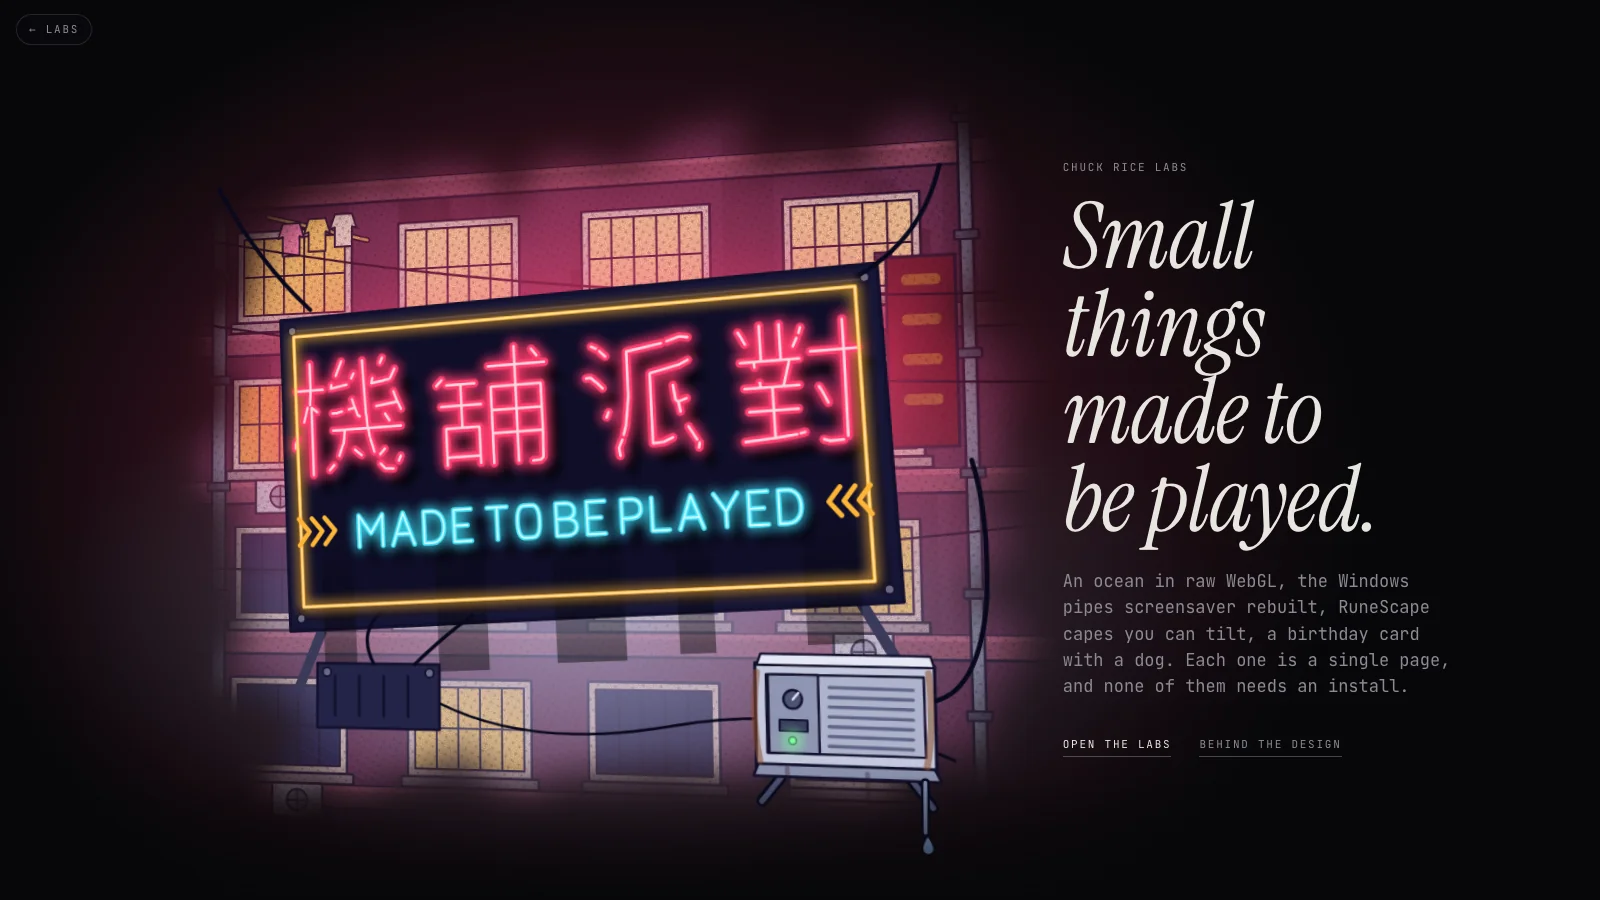
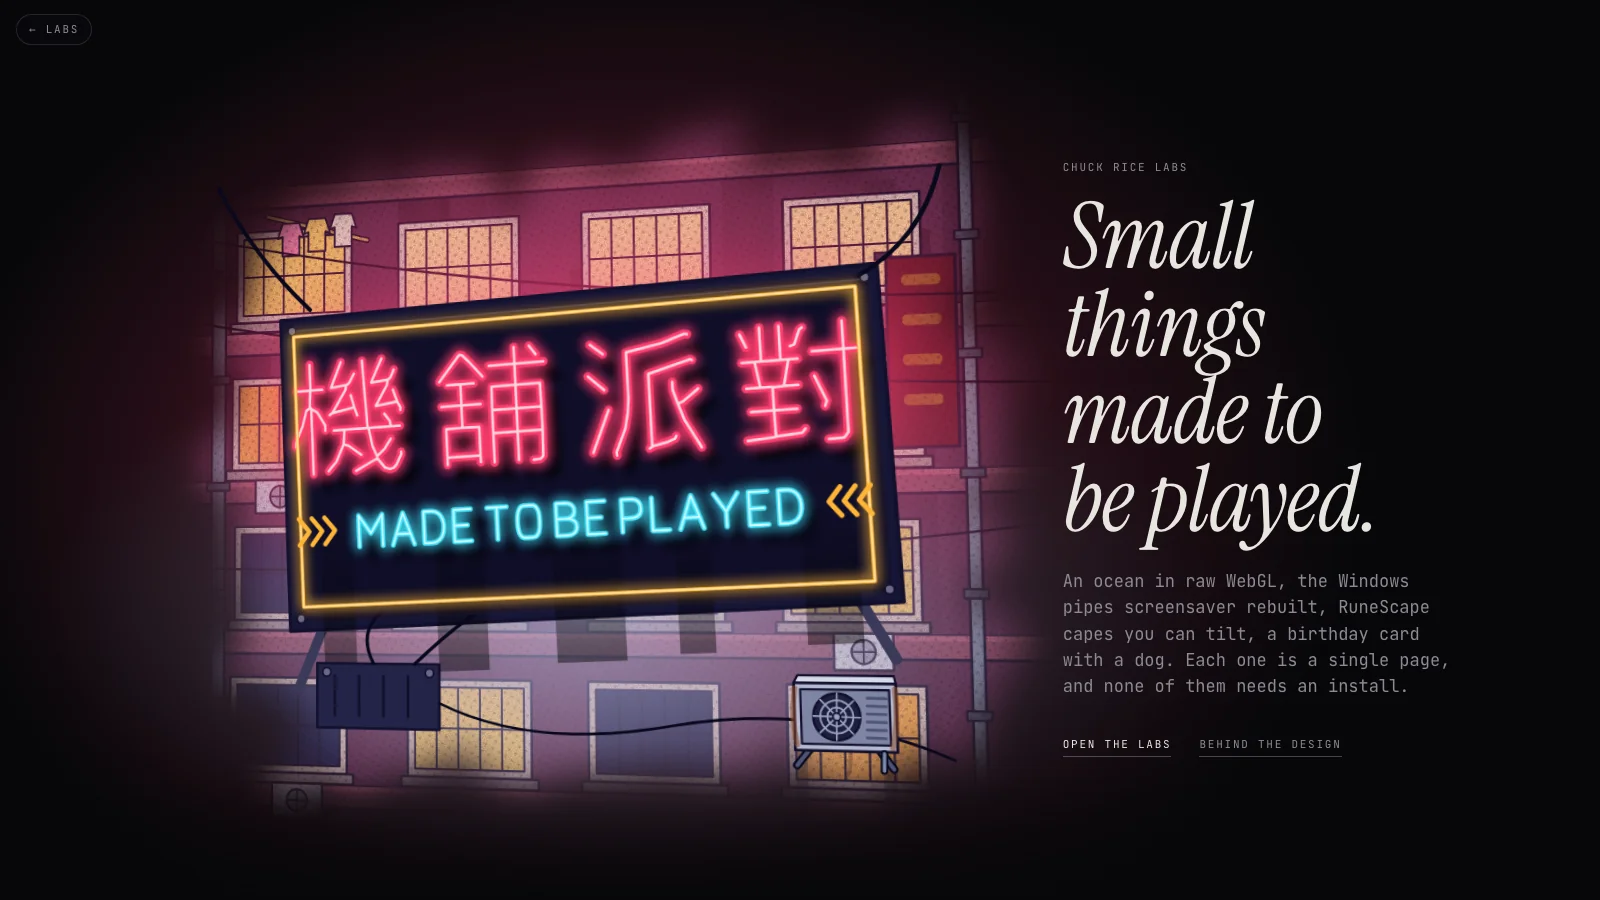
Made to be played: retrace characters (舖 hat restored), smaller outdoor-side aircon, rarer drips, characters in aria-label and data-text

diff --git a/made-to-be-played/index.html b/made-to-be-played/index.html
@@ -40,8 +40,8 @@ body { font: 400 14px/1.6 var(--mono); -webkit-font-smoothing: antialiased; }
 }
 .z { position: absolute; inset: 0; transform: translateZ(var(--z, 0px)); pointer-events: none; }
 .z > svg { position: absolute; left: 0; top: 0; width: 100%; height: 100%; overflow: visible; display: block; }
-@keyframes drip { 0% { opacity: 0; transform: translateY(-4px) scale(.5); } 12% { opacity: 1; transform: translateY(0) scale(1); } 100% { opacity: 0; transform: translateY(150px) scale(1); } }
-.drip { transform-box: fill-box; transform-origin: 50% 0; opacity: 0; animation: drip 1.7s cubic-bezier(.5,0,.9,.6) infinite; }
+@keyframes drip { 0%, 12% { opacity: 0; transform: translateY(-3px) scale(.4); } 17% { opacity: 1; transform: translateY(0) scale(1); } 34% { opacity: 1; transform: translateY(130px) scale(1); } 36%, 100% { opacity: 0; transform: translateY(135px) scale(1); } }
+.drip { transform-box: fill-box; transform-origin: 50% 0; opacity: 0; animation: drip 9s cubic-bezier(.4,0,.8,.7) infinite; }
 @media (prefers-reduced-motion: reduce) { .drip { animation: none; opacity: .8; } }
 #hit { position: absolute; left: 14%; top: 26%; width: 72%; height: 46%; background: none; border: 0; padding: 0; cursor: pointer; transform: translateZ(60px); border-radius: 14px; }
 #hit:focus-visible { outline: 1px solid var(--ink); outline-offset: 6px; }
@@ -94,9 +94,9 @@ body { font: 400 14px/1.6 var(--mono); -webkit-font-smoothing: antialiased; }
   </defs></svg>
 
   <div class="hero">
-    <h1 class="sr">Made to be played. 機舖派對 (arcade party).</h1>
+    <h1 class="sr">Made to be played. <span lang="zh-HK">機舖派對</span> (arcade party).</h1>
     <div id="pw">
-      <div id="plate" role="img" aria-label="A Hong Kong neon sign on the side of an old building. In pink tubes it reads 機舖派對, arcade party; below, in cyan, Made to be played.">
+      <div id="plate" data-text="機舖派對" role="img" aria-label="A Hong Kong neon sign on the side of an old building. In pink tubes it reads 機舖派對, arcade party; below, in cyan, Made to be played.">
         <div class="z" style="--z:0px" id="z-wall"></div>
         <div class="z" style="--z:12px" id="z-glow"></div>
         <div class="z" style="--z:26px" id="z-back"></div>
@@ -148,10 +148,10 @@ const mount = (id, html) => { document.getElementById(id).insertAdjacentHTML('af
 /* ---------------------------------------------------------------- the characters: stroke centrelines traced from a bold sans, 100x100 each */
 const CN_ALL = {   // stroke centrelines, 100x100 each
   wei: 'M47.2 5.7L46.4 10.7M26.4 12.1L29.7 16.8M45 15.7L44.2 19.1M43.9 19.6L43.3 23.2M43.3 23.2L73.6 23.5M13.3 23.5L41.7 23.5M41.9 23.8L37.8 35.7M73.9 23.8L72.5 31.6M71.1 36.3L70.6 40.7M36.4 40.7L70.3 41M70.8 41L82.2 41M82.5 41.3L81.7 47.1M81.1 48.8L79.2 59.6M23.9 59.3L78.9 59.9M79.4 59.9L88.6 59.9M88.9 60.2L88.6 77.4L85.8 89.1M21.1 60.7L16.7 65.2M15.8 65.7L7.2 72.7M69.7 70.4L74.2 81M53.6 71.3L56.7 78.5M25.6 73.5L18.1 87.4M39.7 75.2L42.2 88.2M82.8 91.8L78.9 93.2L68.3 93.2',
-  ji: 'M79.4 6L77.5 9.9M19.2 6.3L19.2 26.8M45.6 6.3L40.6 17.1M62.8 6.8L64.4 49.3M89.2 15.4L85.3 22.4M55.3 16.6L53.3 20.2M70.8 21.3L69.7 25.2L79.7 23.8M83.6 23.2L80.3 23.5M36.7 24.1L36.1 26.8L49.2 24.9M6.9 27.1L18.9 27.1M19.4 27.1L29.2 27.1M19.2 27.4L18.3 38.5M87.5 32.7L90.3 40.7M53.3 36.6L55.3 42.9M16.1 40.4L12.8 51.6M19.7 40.7L23.9 44.3M19.4 41L19.2 93.2M90 41L73.1 43.2M90.6 41L93.1 46.8M55 43.2L50.3 44.1M55.6 43.2L57.5 49.1L59.2 50.2M44.7 45.4L41.1 46M36.7 46.3L40.6 46.3M80 49.6L83.3 54.9M64.7 49.9L65.3 59.3M36.7 59.6L46.4 59.9M65 59.6L46.7 59.6M66.1 59.6L84.4 59.6M85 59.6L92.5 59.6M46.4 59.9L45 70.4M65.8 59.9L66.7 66.3M7.2 64.3L5 68.2L5 71.6M67.2 68.2L70 78.2M44.2 71.6L41.1 79.6M54.2 75.7L59.4 80.2M78.6 76.6L74.7 80.4M91.4 82.7L89.7 86.3M36.4 86.6L32.8 90.2M74.7 87.7L77.8 91M78.6 91.6L85 92.1',
-  pu: 'M69.2 6L69.2 19.3M82.8 9.1L86.7 14.3M48.3 19.6L68.9 19.6M69.4 19.6L92.5 19.6M69.2 19.9L69.2 35.2M10.8 27.4L6.4 31.6M14.4 31.6L25.6 31.6M26.1 31.6L36.9 31.6M25.8 31.8L25.8 47.7M50 35.4L68.9 35.4M69.4 35.4L88.6 35.4M49.7 35.7L49.7 52.9M69.2 35.7L69.2 52.9M88.9 35.7L88.9 52.9M9.4 47.9L25.6 47.9M26.1 47.9L41.4 47.9M25.8 48.2L25.8 64.6M50 53.2L68.9 53.2M69.4 53.2L88.6 53.2M49.7 53.5L49.7 70.4M69.2 53.5L69.2 70.4M88.9 53.5L88.9 70.4M13.1 64.9L25.6 64.9M26.1 64.9L39.2 64.9M12.8 65.2L12.8 86.6M39.4 65.2L39.4 86.6M50 70.7L68.9 70.7M69.4 70.7L88.6 70.7M49.7 71L49.7 93.2M69.2 71L69.2 92.7M88.9 71L88.3 91L86.1 92.9L80.3 93.2M13.1 86.8L39.2 86.8M12.8 87.1L12.8 92.9M39.4 87.1L39.4 92.4',
-  paai: 'M86.1 10.4L80 9.3L70.3 12.1M13.1 11.3L16.7 13.2M66.1 13.2L40 17.1M19.2 15.2L23.6 19.6M39.7 17.4L39.4 51L36.4 72.7M85.3 27.1L78.1 30.2L56.9 34.6M11.4 34.6L8.1 34.9M11.9 34.9L15 37.9M56.4 35.2L56.1 86.3M15.6 38.2L20.3 43.2M73.3 44.9L74.7 55.7L76.7 57.4M82.8 55.2L77.2 57.1M76.7 57.7L77.8 64.6M23.9 61.3L22.2 64.9M36.1 73.2L34.4 78.8M83.1 76L88.9 86M33.1 82.4L30.3 88.2L31.1 94.1M71.1 83.2L64.2 86L56.1 86.6M90.6 88.5L90 91.8',
-  deoi: 'M22.8 6.6L22.8 32.4M37.2 6.6L37.2 32.4M82.5 6.6L82.5 27.9M52.5 10.2L51.1 14.1M7.2 10.4L9.2 13.8M9.7 14.9L11.9 19.3M49.4 17.7L46.4 23.5M58.6 28.2L82.2 28.2M82.8 28.2L92.5 28.2M82.5 28.5L81.7 90.7M7.5 32.7L17.2 32.7M17.8 32.7L22.5 32.7M23.1 32.7L36.9 32.7M37.5 32.7L43.1 32.7M43.6 32.7L50.3 32.7M17.5 32.9L17.8 36.6M43.3 32.9L38.1 51.6M21.1 48.2L21.4 51.6M9.7 51.8L21.1 51.8M21.7 51.8L29.7 51.8M30.3 51.8L37.8 51.8M38.3 51.8L49.4 51.8M30 52.1L30 68.5M63.3 53.8L65 56.8M65.6 57.9L69.2 66M12.2 68.8L29.7 68.8M30.3 68.8L47.8 68.8M30 69.1L30 88.5M51.4 86L48.1 86.6M45.6 87.1L30.3 88.8M29.7 88.8L8.1 90.4M64.4 92.1L68.6 93.5L78.3 93.2',
+  ji: 'M19.2 6.8L19.2 26.8M45.3 6.8L36.4 26.3L48.6 25.2M78.9 6.8L69.7 24.6M62.8 7.1L65.3 59.3M88.6 16L85.8 21.8L83.6 23.5M55.8 16.8L51.4 23.8L49.2 25.2M83.1 23.5L70 24.9M83.3 23.8L82.5 27.7L72.8 42.9M48.9 25.4L48.3 28.8L36.9 45.7M7.5 27.1L18.6 27.1M19.4 27.1L28.9 27.1M18.9 27.4L18.1 40.4L19.2 41.3M87.2 31.6L90.3 40.7M52.5 33.2L55 42.9M17.8 41L15 42.9L11.4 54.6L5.6 66.8L5.3 70.7M90 41L72.8 43.2M90.3 41L92.8 45.7L92.5 47.7M19.4 41.6L24.2 44.6L30.3 55.2L30.3 59.3M19.2 41.8L19.2 92.7M55 42.9L36.9 46M55 42.9L57.2 49.3M36.7 46L34.4 47.4M79.4 49.6L83.6 55.4L84.2 59.3M37.2 59.6L45.8 59.6M46.4 59.6L65 59.6M66.4 59.6L83.9 59.6M84.4 59.6L91.7 59.6M46.1 59.9L45 71M66.1 59.9L68.6 73.8L71.9 81.6M83.9 69.1L78.3 76.8L72.5 81.6M45 71L38.6 83.8L31.7 91M45 71L49.2 72.4L59.2 79.9M91.7 79.6L91.9 81.3L87.8 89.1L85.3 91.6L82.2 92.4L78.1 91L72.2 83.5M72.2 83.5L54.4 92.1',
+  pu: 'M69.2 6.6L69.2 19.1M81.1 6.6L86.1 13.5M48.9 19.3L68.9 19.3M69.4 19.3L91.9 19.3M69.2 19.6L69.2 35.2M43.6 27.1L33.3 14.9L28.1 9.6L25.8 9.1L8.9 28.8M15 31.6L25.6 31.6M26.1 31.6L36.4 31.6M25.8 31.8L25.8 47.7M68.9 35.4L50.3 35.4L50 52.9M69.4 35.4L88.3 35.4L88.6 52.9M69.2 35.7L69.2 52.9M9.7 47.9L25.6 47.9M26.1 47.9L41.1 47.9M25.8 48.2L25.8 64.6M50.3 53.2L68.9 53.2M69.4 53.2L88.3 53.2M50 53.5L50 70.4M69.2 53.5L69.2 70.4M88.6 53.5L88.6 70.4M25.6 64.9L12.8 65.2L12.8 86.6M26.1 64.9L39.2 65.2L39.2 86.6M50.3 70.7L68.9 70.7M69.4 70.7L88.3 70.7M50 71L50 92.7M69.2 71L69.2 92.1M88.6 71L88.1 90.4L85.8 92.4L80.6 92.7M13.1 86.8L38.9 86.8M12.8 87.1L12.8 92.4M39.2 87.1L39.2 91.8',
+  paai: 'M85.8 8.2L83.6 7.7L66.4 13.2L39.4 17.9L39.4 52.1L38.3 62.7L35.8 74.3L28.3 91.3L28.6 93.8M12.2 9.9L21.7 17.7M88.3 27.4L86.9 26.8L55.3 35.2L55.3 88.8L67.2 86.3L72.5 84.3L73.6 82.4M9.4 33.5L21.4 44.6M72.8 42.4L72.8 48.2L75.8 58.2M91.7 48.8L80 57.4L76.1 58.8L80.3 71L91.9 91.8M23.9 59.6L10.6 90.7M55 89.3L53.3 90.2',
+  deoi: 'M22.8 7.9L22.8 32.4M36.9 7.9L36.9 32.4M82.2 7.9L82.2 27.9M53.6 10.4L51.7 11.6L47.5 22.1L44.2 23.2M8.3 11.8L12.5 21.6M59.7 28.2L81.9 28.2M82.5 28.2L91.4 28.2M82.2 28.5L81.9 88.2L78.6 91.8L67.8 92.1M8.6 32.7L17.8 32.7M18.3 32.7L22.5 32.7M23.1 32.7L36.7 32.7M37.2 32.7L42.2 32.7M42.8 32.7L49.2 32.7M18.1 32.9L21.1 51.3M42.5 32.9L38.3 51.3M60.3 46L68.1 64.6L66.7 68.2M10.8 51.6L20.8 51.6M21.4 51.6L29.7 51.6M38.1 51.6L30 52.1L30 68.5M38.6 51.6L48.6 51.6M13.3 68.8L29.7 68.8M30.3 68.8L46.7 68.8M30 69.1L30.3 87.9L49.2 86.3L51.7 83.5M29.7 88.2L9.7 89.6',
 };
 // 機舖 is Cantonese for an arcade; 機舖派對 is arcade party. ?cn=arcade shows the short one.
 const CN_SETS = { party: ['ji', 'pu', 'paai', 'deoi'], arcade: ['ji', 'pu'] };
@@ -236,20 +236,18 @@ function buildBack() {
     `<path d="M${BX + 110} ${BY + BH + 56}Q${BX + 90} ${BY + BH + 20} ${BX + 120} ${BY + BH - 4}M${BX + 160} ${BY + BH + 56}Q${BX + 200} ${BY + BH + 20} ${BX + 230} ${BY + BH}" fill="none" stroke="#08081c" stroke-width="4"/>` +
     `<path d="M${BX + 190} ${BY + BH + 100}Q${BX + 300} ${BY + BH + 150} ${BX + 460} ${BY + BH + 120}T${BX + 760} ${BY + BH + 150}" fill="none" stroke="#08081c" stroke-width="3"/>`;
 
-  // the air conditioner: a window unit bolted to the wall, grimy, dripping onto whoever is underneath
-  g += `<g transform="rotate(1.1 795 690)">` +
-    `<path d="M730 750L708 778M866 748L888 776" stroke="#08081c" stroke-width="12" stroke-linecap="round"/><path d="M730 750L708 778M866 748L888 776" stroke="#4d5374" stroke-width="6" stroke-linecap="round"/>` +
-    pane([[700, 630], [890, 628], [892, 738], [702, 742]], '#c3c8dc', 3.4) + pane([[706, 620], [886, 618], [890, 630], [702, 632]], '#e4e8f4', 2.4) +
-    pane([[712, 642], [879, 640], [881, 724], [714, 726]], '#aeb3cc', 2.6) + pane([[714, 642], [768, 641], [770, 725], [716, 726]], '#8f95b2', 2.6) +
-    [0, 1, 2, 3, 4, 5, 6].map(i => `<path d="M780 ${654 + i * 10.4}H868" stroke="#5e6486" stroke-width="3.6" stroke-linecap="round"/>`).join('') +
-    `<circle cx="741" cy="668" r="10" fill="#4d5374" stroke-width="2.6"/><path d="M741 668L747 661" stroke="#e4e8f4" stroke-width="2.6" stroke-linecap="round"/>` +
-    pane(rect(727, 690, 30, 12), '#3a3f5e', 2.2) + `<circle cx="741" cy="712" r="4" fill="#7dff9a" stroke-width="1.6"/><circle cx="741" cy="712" r="12" fill="#7dff9a" opacity=".5" stroke="none" filter="url(#sh)"/>` +
-    pane([[704, 738], [890, 736], [897, 749], [699, 751]], '#8a90ac', 3) +
-    `<path d="M702 640Q696 690 706 735M884 636Q890 690 882 734" stroke="#8a4a2a" stroke-width="7" opacity=".55" fill="none" stroke-linecap="round"/><path d="M735 742Q737 760 733 780M820 744Q822 766 818 790" stroke="#2a1a22" stroke-width="5" opacity=".35" fill="none" stroke-linecap="round"/>` +
-    `<path d="M880 750V802" stroke="#08081c" stroke-width="9" stroke-linecap="round"/><path d="M880 750V802" stroke="#7f8fb2" stroke-width="4" stroke-linecap="round"/>` +
-    `<path d="M892 664Q936 650 944 560Q948 470 930 410" fill="none" stroke="#08081c" stroke-width="5"/>` + `</g>`;
+  // the air conditioner, seen from the street: the outdoor side of a window unit, so a fan guard and louvres, no controls
+  g += `<g transform="translate(742 650) rotate(1.1 54 34)">` +
+    `<path d="M18 70L4 88M92 70L106 88" stroke="#08081c" stroke-width="9" stroke-linecap="round"/><path d="M18 70L4 88M92 70L106 88" stroke="#4d5374" stroke-width="4.4" stroke-linecap="round"/>` +
+    pane([[0, 0], [108, -2], [110, 70], [2, 72]], '#b4b9d0', 3) + pane([[4, -8], [106, -10], [108, -2], [0, 0]], '#d6dae8', 2.4) +
+    pane([[7, 7], [101, 5], [103, 63], [9, 65]], '#7f86a6', 2.4) +
+    `<circle cx="46" cy="35" r="25" fill="#1c1f3c" stroke-width="2.6"/><circle cx="46" cy="35" r="17.5" fill="none" stroke="#9aa1c0" stroke-width="2"/><circle cx="46" cy="35" r="10" fill="none" stroke="#9aa1c0" stroke-width="2"/>` +
+    [0, 1, 2, 3, 4, 5, 6, 7].map(i => `<path d="M46 35L${f1(46 + 25 * Math.cos(i * Math.PI / 4))} ${f1(35 + 25 * Math.sin(i * Math.PI / 4))}" stroke="#9aa1c0" stroke-width="1.8"/>`).join('') + `<circle cx="46" cy="35" r="4" fill="#9aa1c0" stroke-width="1.8"/>` +
+    [0, 1, 2, 3, 4, 5].map(i => `<path d="M78 ${14 + i * 8.4}H98" stroke="#4d5374" stroke-width="3" stroke-linecap="round"/>`).join('') +
+    `<path d="M1 6Q-3 40 4 66M107 4Q111 38 105 66" stroke="#8a4a2a" stroke-width="6" opacity=".55" fill="none" stroke-linecap="round"/><path d="M60 72Q62 84 58 96" stroke="#2a1a22" stroke-width="4" opacity=".3" fill="none" stroke-linecap="round"/>` +
+    `<path d="M96 72V90" stroke="#08081c" stroke-width="8" stroke-linecap="round"/><path d="M96 72V90" stroke="#7f8fb2" stroke-width="3.6" stroke-linecap="round"/>` + `</g>`;
   g += '</g>';
-  mount('z-back', svg(g) + svg(`<g fill="#9cc2ff" stroke="#08081c" stroke-width="1.8">${[[880, 806, 0], [706, 752, .55], [880, 806, 1.1]].map(([x, y, dl]) => `<path class="drip" style="animation-delay:${dl}s" d="M${x} ${y}c-5 7-6 11-6 14a6 6 0 0 0 12 0c0-3-1-7-6-14z"/>`).join('')}</g>`));
+  mount('z-back', svg(g) + svg(`<g fill="#9cc2ff" stroke="#08081c" stroke-width="1.8">${[[838, 742, 0], [744, 726, 5.2]].map(([x, y, dl]) => `<path class="drip" style="animation-delay:${dl}s" d="M${x} ${y}c-5 7-6 11-6 14a6 6 0 0 0 12 0c0-3-1-7-6-14z"/>`).join('')}</g>`));
 }
 
 /* ---------------------------------------------------------------- the building: a piece of a tong lau side wall, fading out unevenly */
@@ -283,7 +281,7 @@ function buildWall() {
       for (let k = 0; k < 3; k++) { const sx = x + 60 + k * 34, sy = y - 8 - k * 4; g += pane([[sx, sy], [sx + 22, sy], [sx + 28, sy + 18], [sx + 22, sy + 16], [sx + 22, sy + 40], [sx, sy + 40], [sx, sy + 16], [sx - 6, sy + 18]], pick(['#f0e6d6', '#ff8fb8', '#8fd0ff', '#ffd66b']), 2.4); }
     }
   }
-  g += `<path d="M706 744Q700 800 712 860L738 860Q730 800 736 744Z M860 744Q856 810 868 870L894 870Q884 800 890 744Z" fill="#05041a" opacity=".32" stroke="none"/>`;
+  g += `<path d="M836 742Q832 800 842 856L856 856Q848 800 850 742Z M742 726Q738 770 746 820L756 820Q752 770 754 726Z" fill="#05041a" opacity=".32" stroke="none"/>`;
   g += pane(rect(38, -200, 18, 1100), '#7d8ca4', 3) + pane(rect(930, -200, 14, 1100), '#7d8ca4', 3);
   for (let y = 30; y < 780; y += 130) g += pane(rect(32, y, 30, 10), '#4a5670', 2.4) + pane(rect(924, y, 26, 10), '#4a5670', 2.4);
   // a dead blade sign hanging off the right edge
@@ -334,7 +332,9 @@ function zap() {
   setTimeout(() => { tubeMain.style.animation = ''; tubeMain.style.opacity = ''; zapping = false; }, t + 80);
 }
 hit.addEventListener('click', zap);
-window.__sign = { CONFIG, zap };
+window.__sign = { CONFIG, zap, text: CN_TEXT[CN_KEY] };
+plate.setAttribute('data-text', CN_TEXT[CN_KEY]);
+plate.setAttribute('aria-label', `A Hong Kong neon sign on the side of an old building. In pink tubes it reads ${CN_TEXT[CN_KEY]}, ${CN_KEY === 'party' ? 'arcade party' : 'arcade'}; below, in cyan, Made to be played.`);
 })();
 </script>
 </body>

diff --git a/CLAUDE.md b/CLAUDE.md
@@ -109,8 +109,8 @@ Default branch `main`. Commit messages end with the Co-Authored-By trailer if Cl
 ## made-to-be-played lab (standalone hero, not yet on the index)
 A tilted Hong Kong neon sign on a faded tenement wall, copy on the right. Meant to become the index hero ("made to be played"). `noindex`, not in `LABS` yet; notes page at `made-to-be-played/direction/`.
 - Built in code, no image files. Four stacked SVG layers in a CSS 3D plane (wall, glow, steel backing + shadow + aircon, tubes) so the pointer slides the tubes against their own shadow. The wall is masked by an irregular displaced+blurred blob; the glow layer is not masked, so light spills past the cutout.
-- Chinese tubes are stroke centrelines traced from a rendered bold sans (render, Zhang-Suen thin, trace, simplify), pasted in as path data (`CN_ALL`); no font is shipped. Text is `機舖派對` (arcade party); `?cn=arcade` shows `機舖`. The English line uses hand-drawn single-stroke capitals (`GLYPH`).
-- Tunables in `CONFIG` at the top of the script (tilt, boost reach, sign roll). Click the sign to make it stutter; one character flickers on its own; the aircon drips. Reduced motion: no flicker, drip, breathing or tilt.
+- Chinese tubes are stroke centrelines traced from a rendered light sans (render at weight 300, Zhang-Suen thin, drop staircase corner pixels so diagonals stay one piece, trace, simplify, drop sub-1.6-unit fragments; the first version lost 舖's hat to the fragment filter), pasted in as path data (`CN_ALL`); no font is shipped. Text is `機舖派對` (arcade party); `?cn=arcade` shows `機舖`. The English line uses hand-drawn single-stroke capitals (`GLYPH`).
+- Tunables in `CONFIG` at the top of the script (tilt, boost reach, sign roll). Click the sign to make it stutter; one character flickers on its own; the aircon (outdoor side: fan guard and louvres, no controls) drips occasionally. Reduced motion: no flicker, drip, breathing or tilt.
 - Decisions Chuck made: stained glass dropped ("great, all things considered", then a flat-poster try from references), then cut down to just the sign; sign slightly askew not flat; building cutout fading irregularly with glow escaping it; Chinese main, English smaller underneath; 機舖 / 機舖派對 over 為玩而造; an aircon in the picture for authenticity.
 - Checkpoint: tag `made-to-be-played-three-directions` holds both abandoned scenes (stained glass, flat poster) as working pages. Screenshots are in the notes page.
-- Open: mobile layout and tilt on touch, real-device perf (several large blurred layers), whether 派 reads well to a Cantonese reader (its traced strokes are the roughest), the exact index-hero integration.
+- Open: mobile layout and tilt on touch, real-device perf (several large blurred layers), whether the traced characters read well to a Cantonese reader (compare against `data-text` / the aria-label on `#plate`), the exact index-hero integration.
